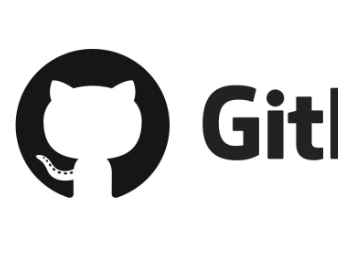
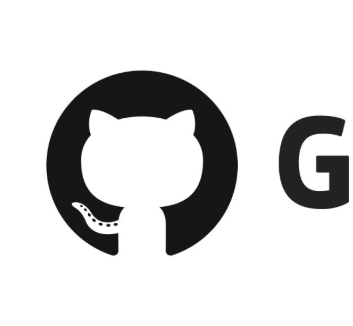
hotfix for image

Changed region(s): [[0.0296, 0.1771, 1.0, 0.797]]

diff --git a/index.html b/index.html
@@ -101,7 +101,7 @@
 								</article>
 								<article class="style6">
 									<span class="image">
-										<img src="images/pic06.jpg" alt="picture of github app" />
+										<img src="images/github.png" alt="picture of github app" />
 									</span>
 									<a href="https://github.com/aaroncosmith">
 										<h2>Looking for more?</h2>
